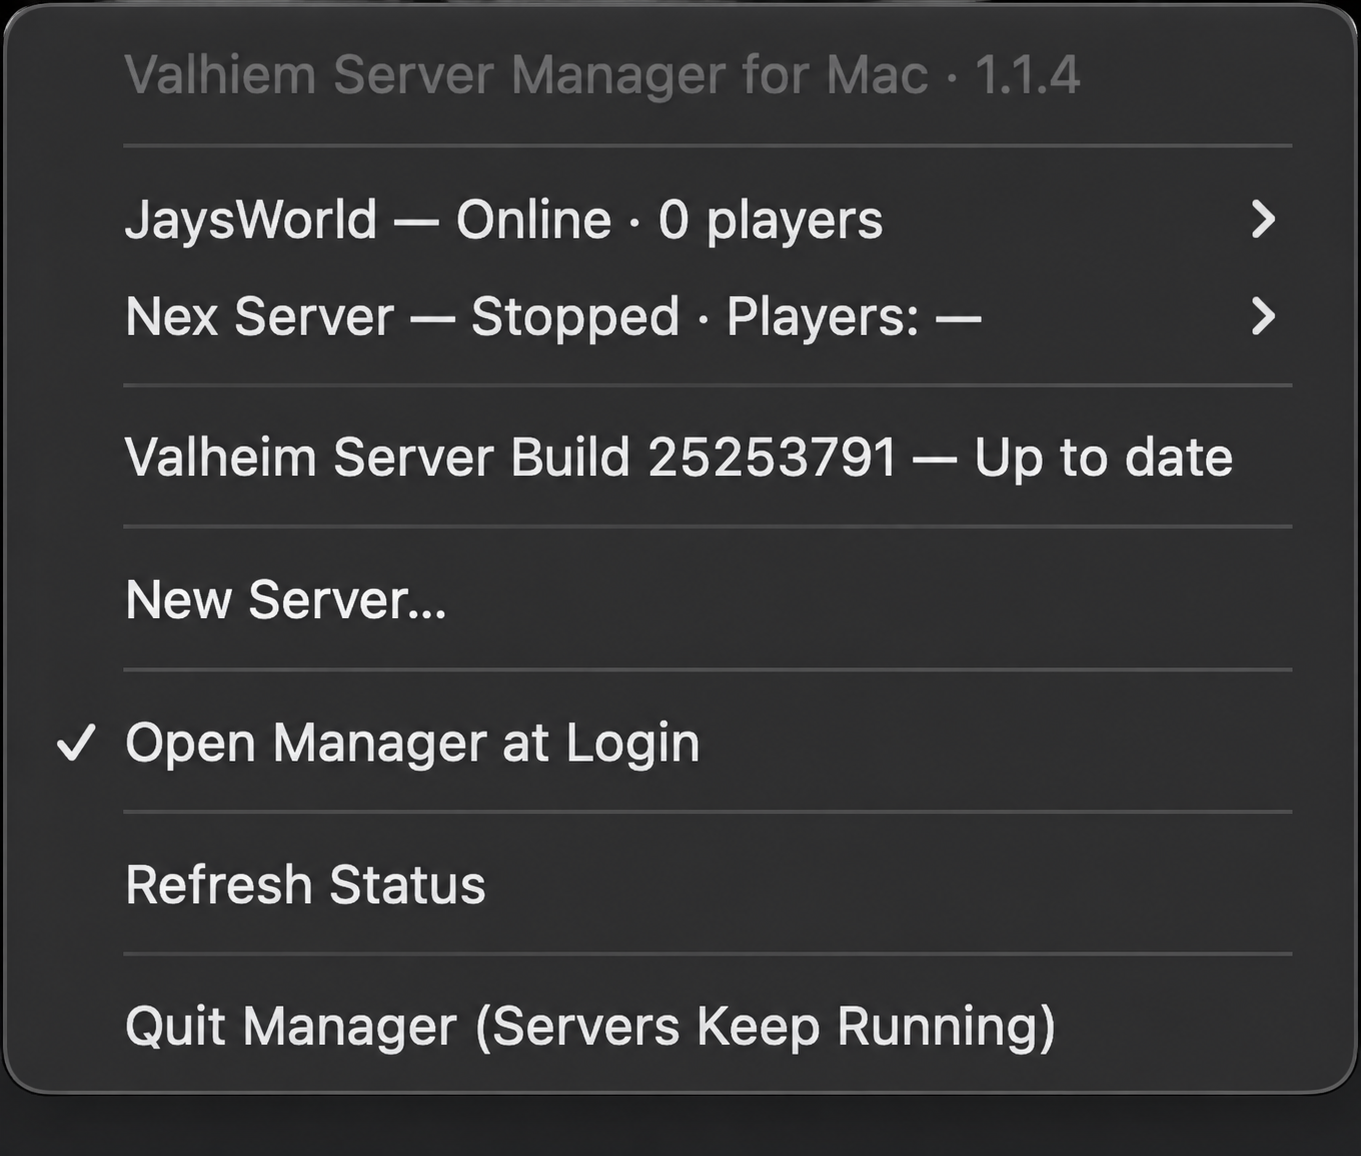
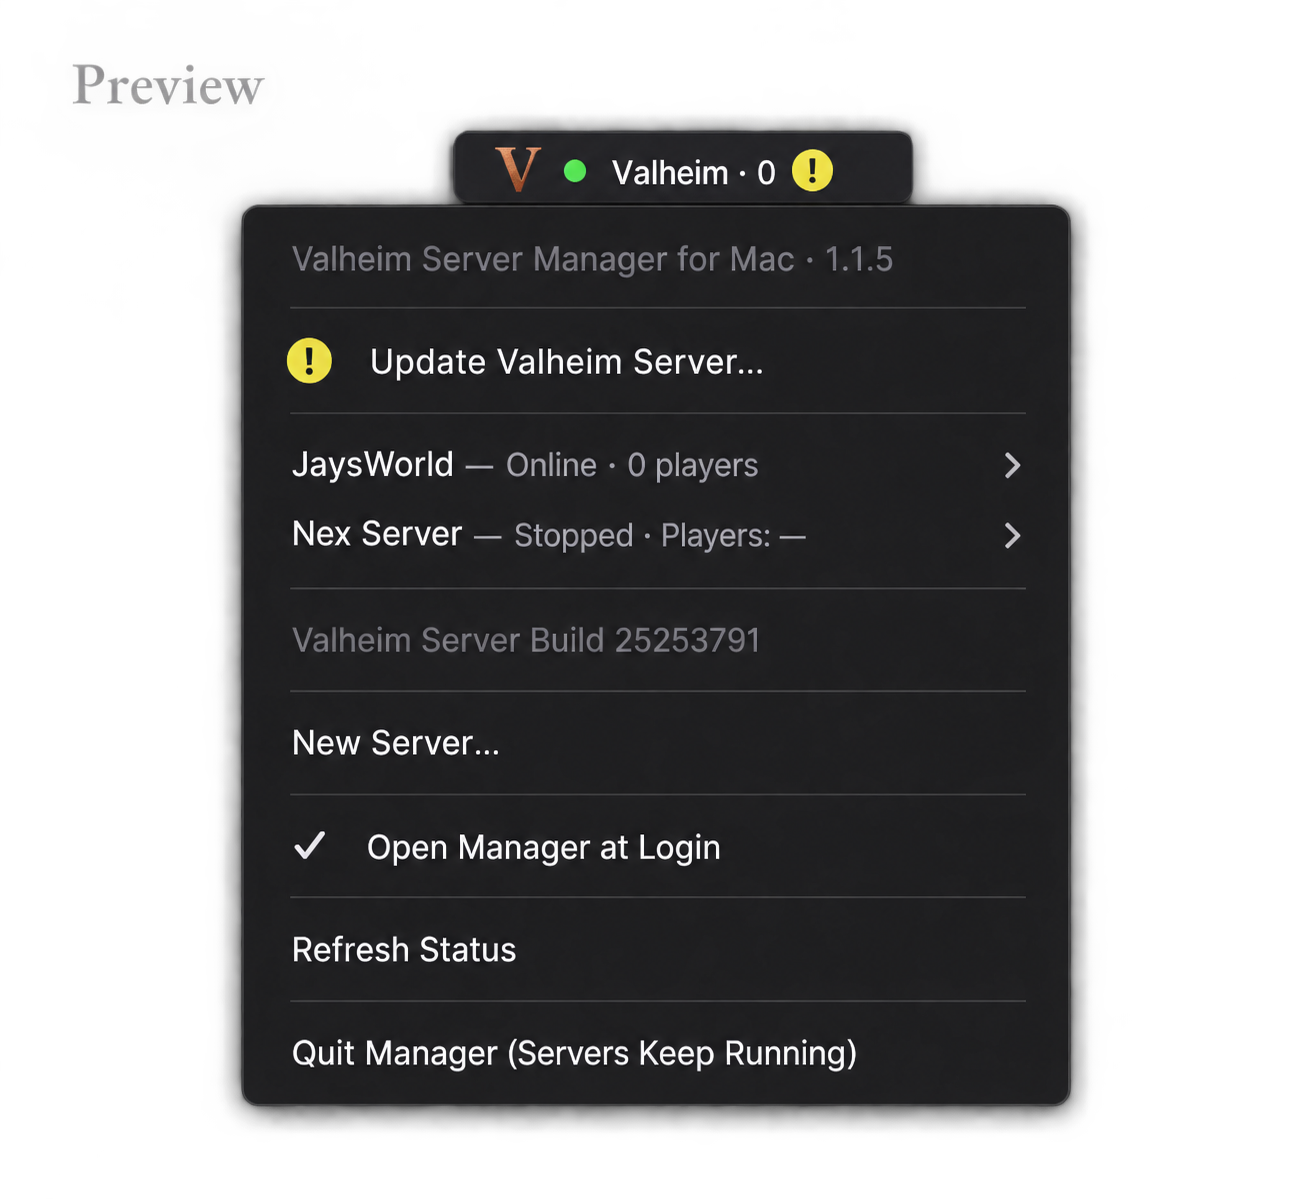
docs: refresh menu preview for 1.1.5

diff --git a/README.md b/README.md
@@ -8,7 +8,9 @@ Host a Valheim dedicated server on your Mac. This native macOS menu bar app inst
 
 [Download for Mac](https://github.com/GlacianNex/valheim-mac-server/releases/latest) · [Mac setup and recovery](docs/SETUP.md) · [Development](CONTRIBUTING.md)
 
-<img src="docs/images/server-manager-menu.png" alt="Valheim Server Manager for Mac menu showing two servers, player counts, server updates, and startup controls" width="680">
+<img src="docs/images/server-manager-menu.png" alt="Illustrated preview of the Valheim Server Manager for Mac 1.1.5 menu with a server update available" width="680">
+
+*Illustrated preview of version 1.1.5 with a server update available.*
 
 ## Getting started on your Mac
 
